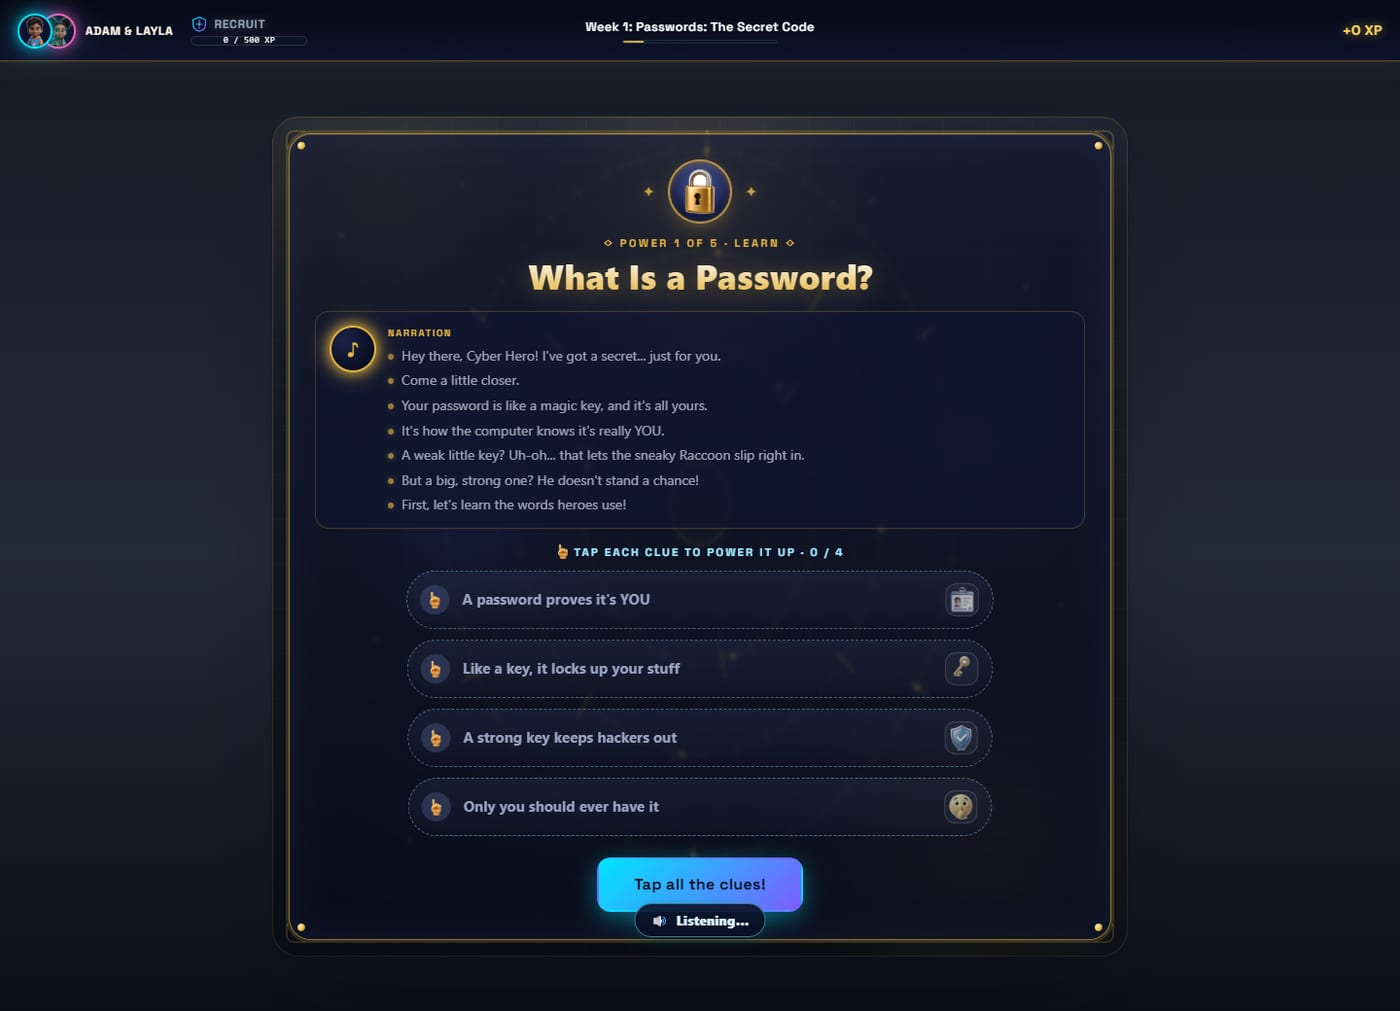
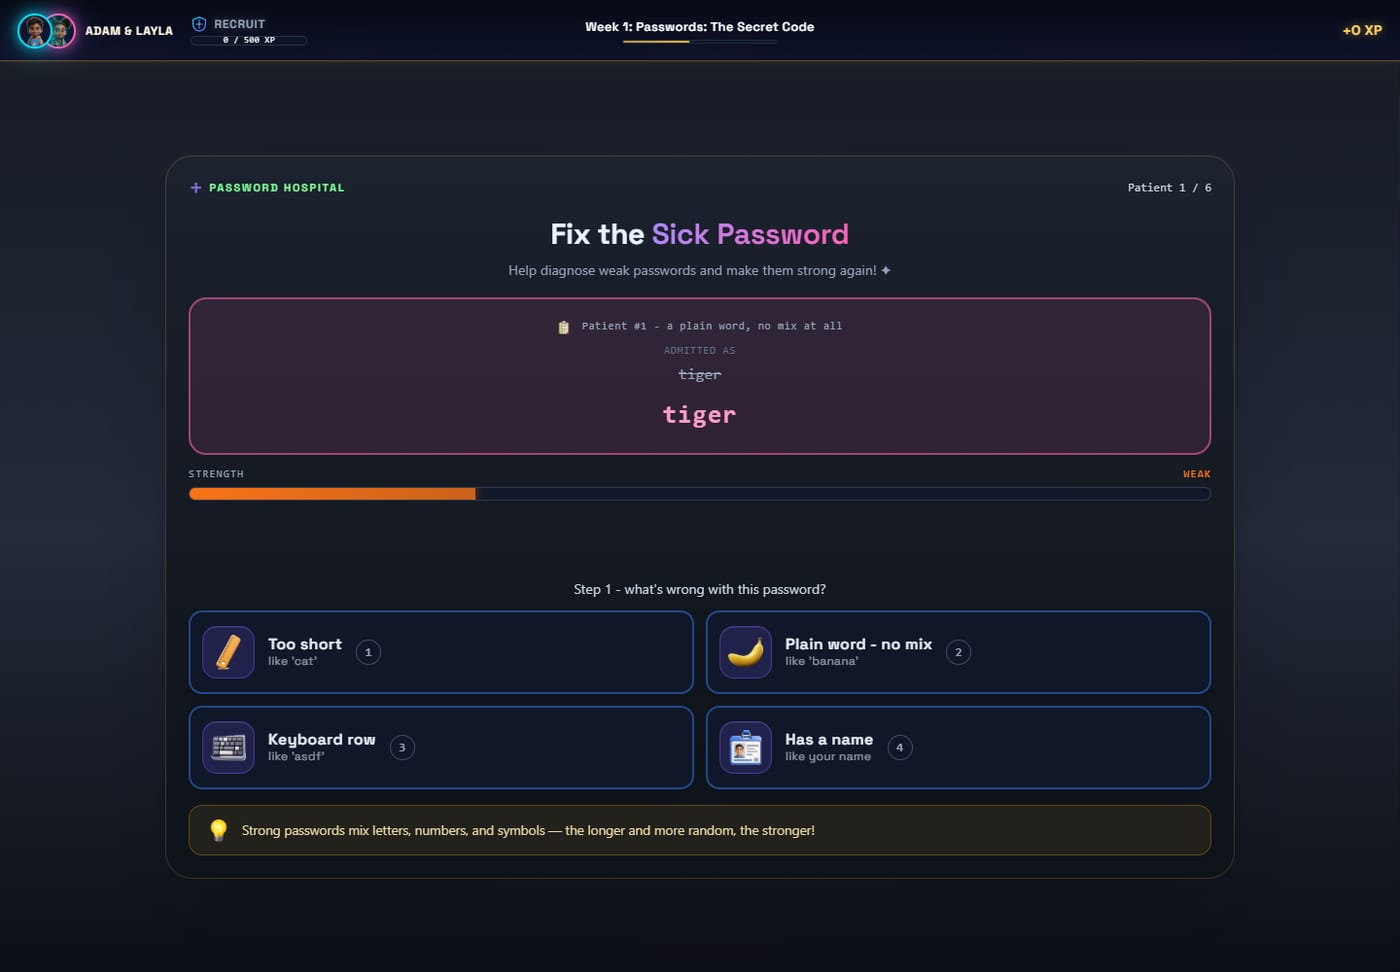
feat(schools): crack-time frames for the Learn and Practise tabs
Owner: "put a cooler one, like how many years it would take your
password to crack".

- Primary Learn: Password Hospital gameplay from Week 1 (diagnose a sick
  password, live strength meter) replaces the narration card.
- Primary Practise: the Passphrase Forge (three random words, strength
  meter) replaces the speed-round question.
- Secondary Learn: Case 3's Meter mechanic, "Rig cracks it in:
  centuries", captured from the real component with its real payload on
  a throwaway dev page (not committed). Replaces the Case 2 briefing.

diff --git a/app/schools/ProductTabs.tsx b/app/schools/ProductTabs.tsx
@@ -29,16 +29,16 @@ const TABS: Tab[] = [
     id: "learn",
     n: "01",
     title: "Learn",
-    desc: "A narrated lesson, one idea per screen, with captions. Nobody needs to read to keep up.",
+    desc: "Every idea is taught by doing, with a narrator and captions on screen. Nobody needs to read to keep up.",
     kind: "shot",
     shot: {
       primary: {
         src: "/schools/heroes-learn.jpg",
-        caption: "Cyber Heroes, Week 1. Sarah teaches what a password is, one clue at a time.",
+        caption: "Password Hospital, Week 1. Diagnose a sick password, fix it, and watch the strength meter climb.",
       },
       secondary: {
-        src: "/schools/explorers-signal.jpg",
-        caption: "Cyber Explorers, Case 2. WREN teaches on a real scam message in the Signal Room.",
+        src: "/schools/explorers-meter.jpg",
+        caption: "Case 3, The Guessing Game. Drag the password length and watch the rig's clock jump from an instant to centuries.",
       },
     },
   },
@@ -51,7 +51,7 @@ const TABS: Tab[] = [
     shot: {
       primary: {
         src: "/schools/heroes-play.jpg",
-        caption: "A Week 1 speed round. Which password would take the Raccoon years to crack?",
+        caption: "Passphrase Forge, Week 1. Three random words make a password the Raccoon's machine can't crack.",
       },
       secondary: {
         src: "/schools/explorers-phone.jpg",
